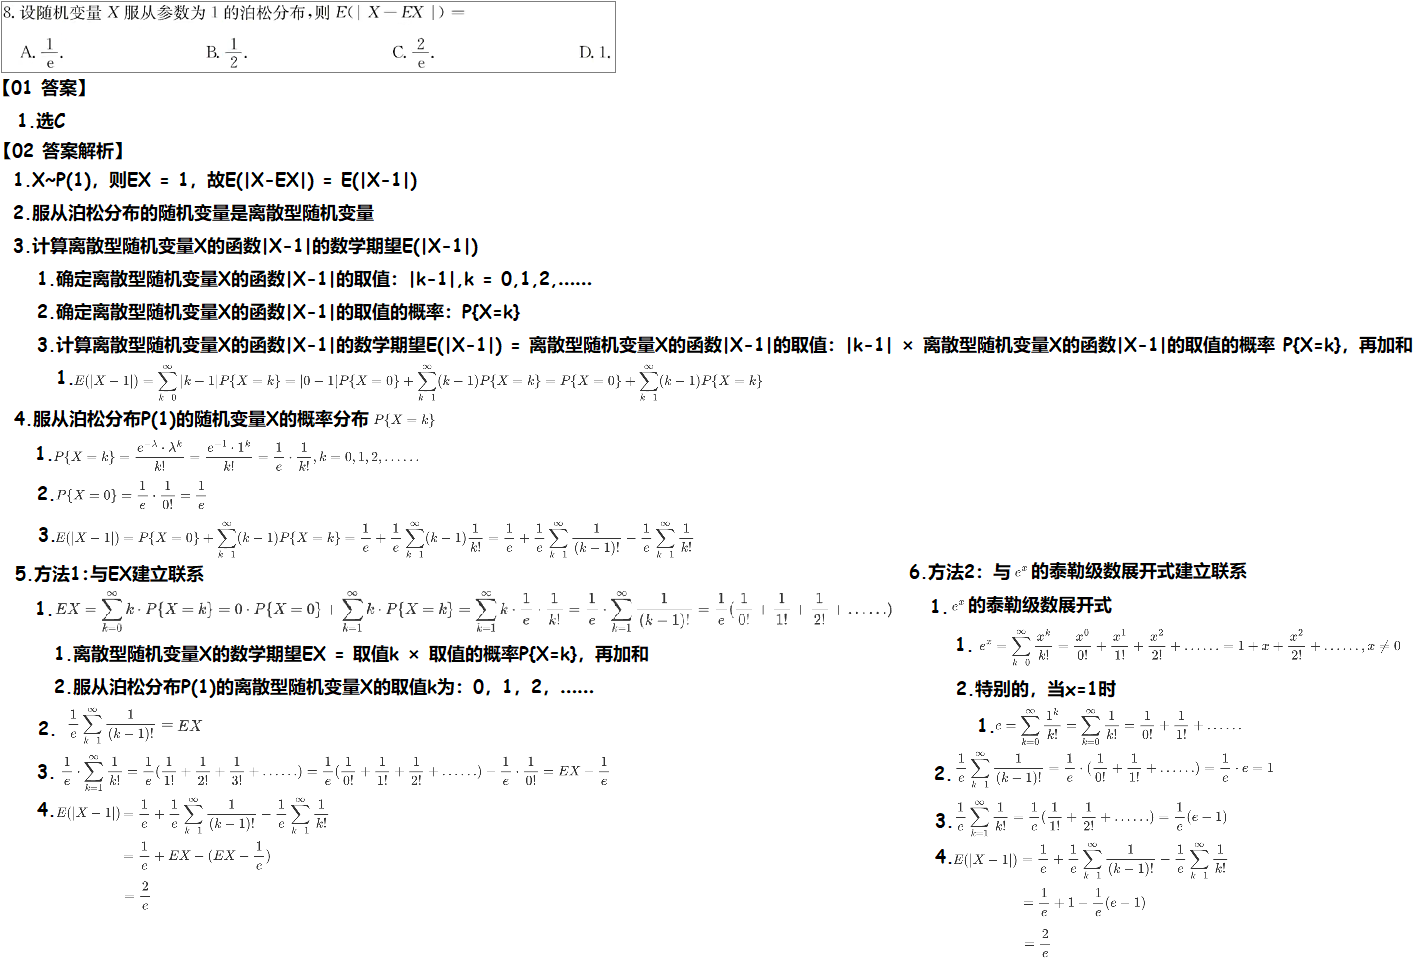
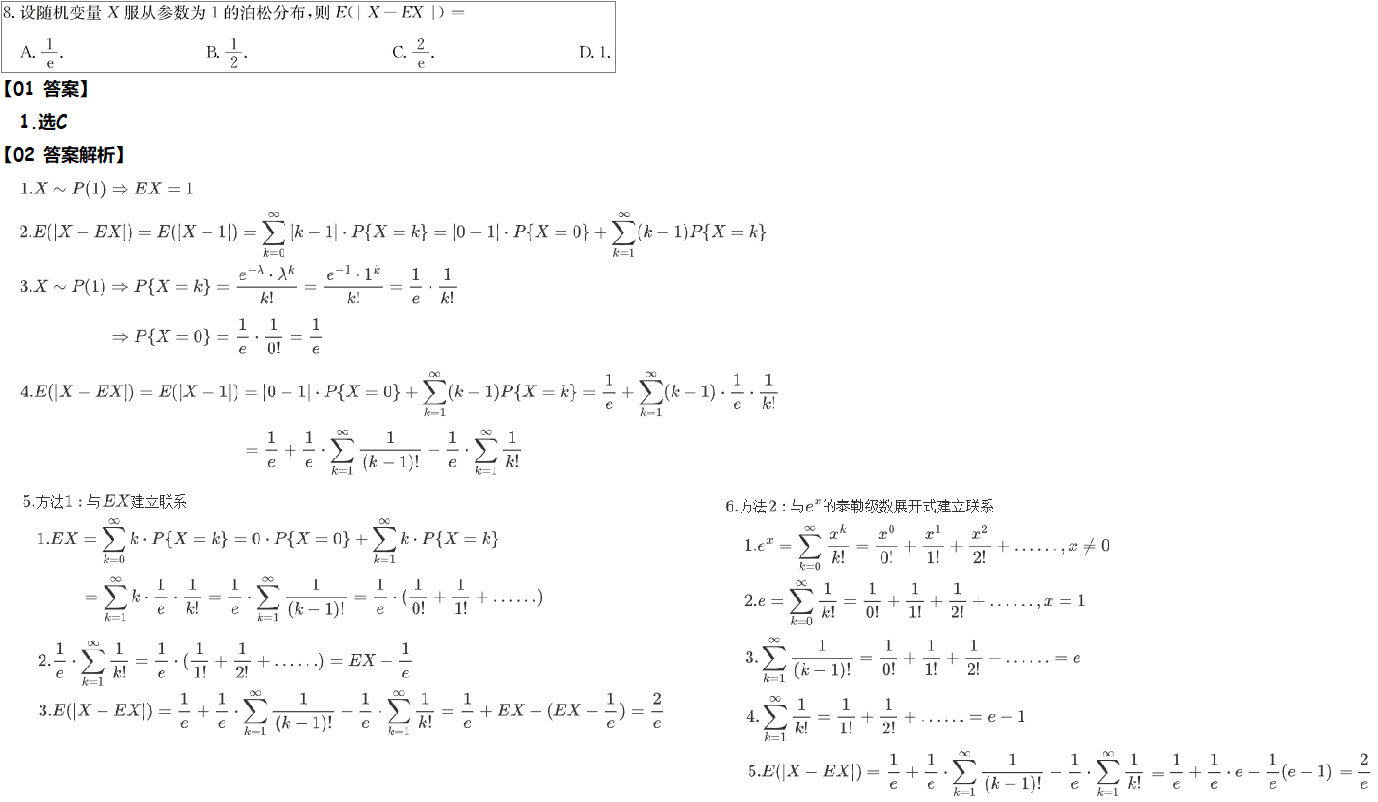
241106

diff --git a/01 题集/01 真题/01 23/01 选择题 50’ = 10 × 5‘/03 选择题 8-10 概统 15‘ = 3 × 5’ 241103/01 选择题08 泊松分布 离散型随机变量的数学期望  泰勒展开式 级数 241103/01 241104/02 Doc.md b/01 题集/01 真题/01 23/01 选择题 50’ = 10 × 5‘/03 选择题 8-10 概统 15‘ = 3 × 5’ 241103/01 选择题08 泊松分布 离散型随机变量的数学期望  泰勒展开式 级数 241103/01 241104/02 Doc.md
@@ -6,4 +6,6 @@
 
 # 02 答案
 
+<img src="https://cvp.oss-cn-shanghai.aliyuncs.com/202411061534770.png" alt="image-20241106153417649" style="zoom:50%;" />
+
 <img src="https://cvp.oss-cn-shanghai.aliyuncs.com/202411050900025.png" alt="image-20241105090009930" style="zoom:50%;" />
